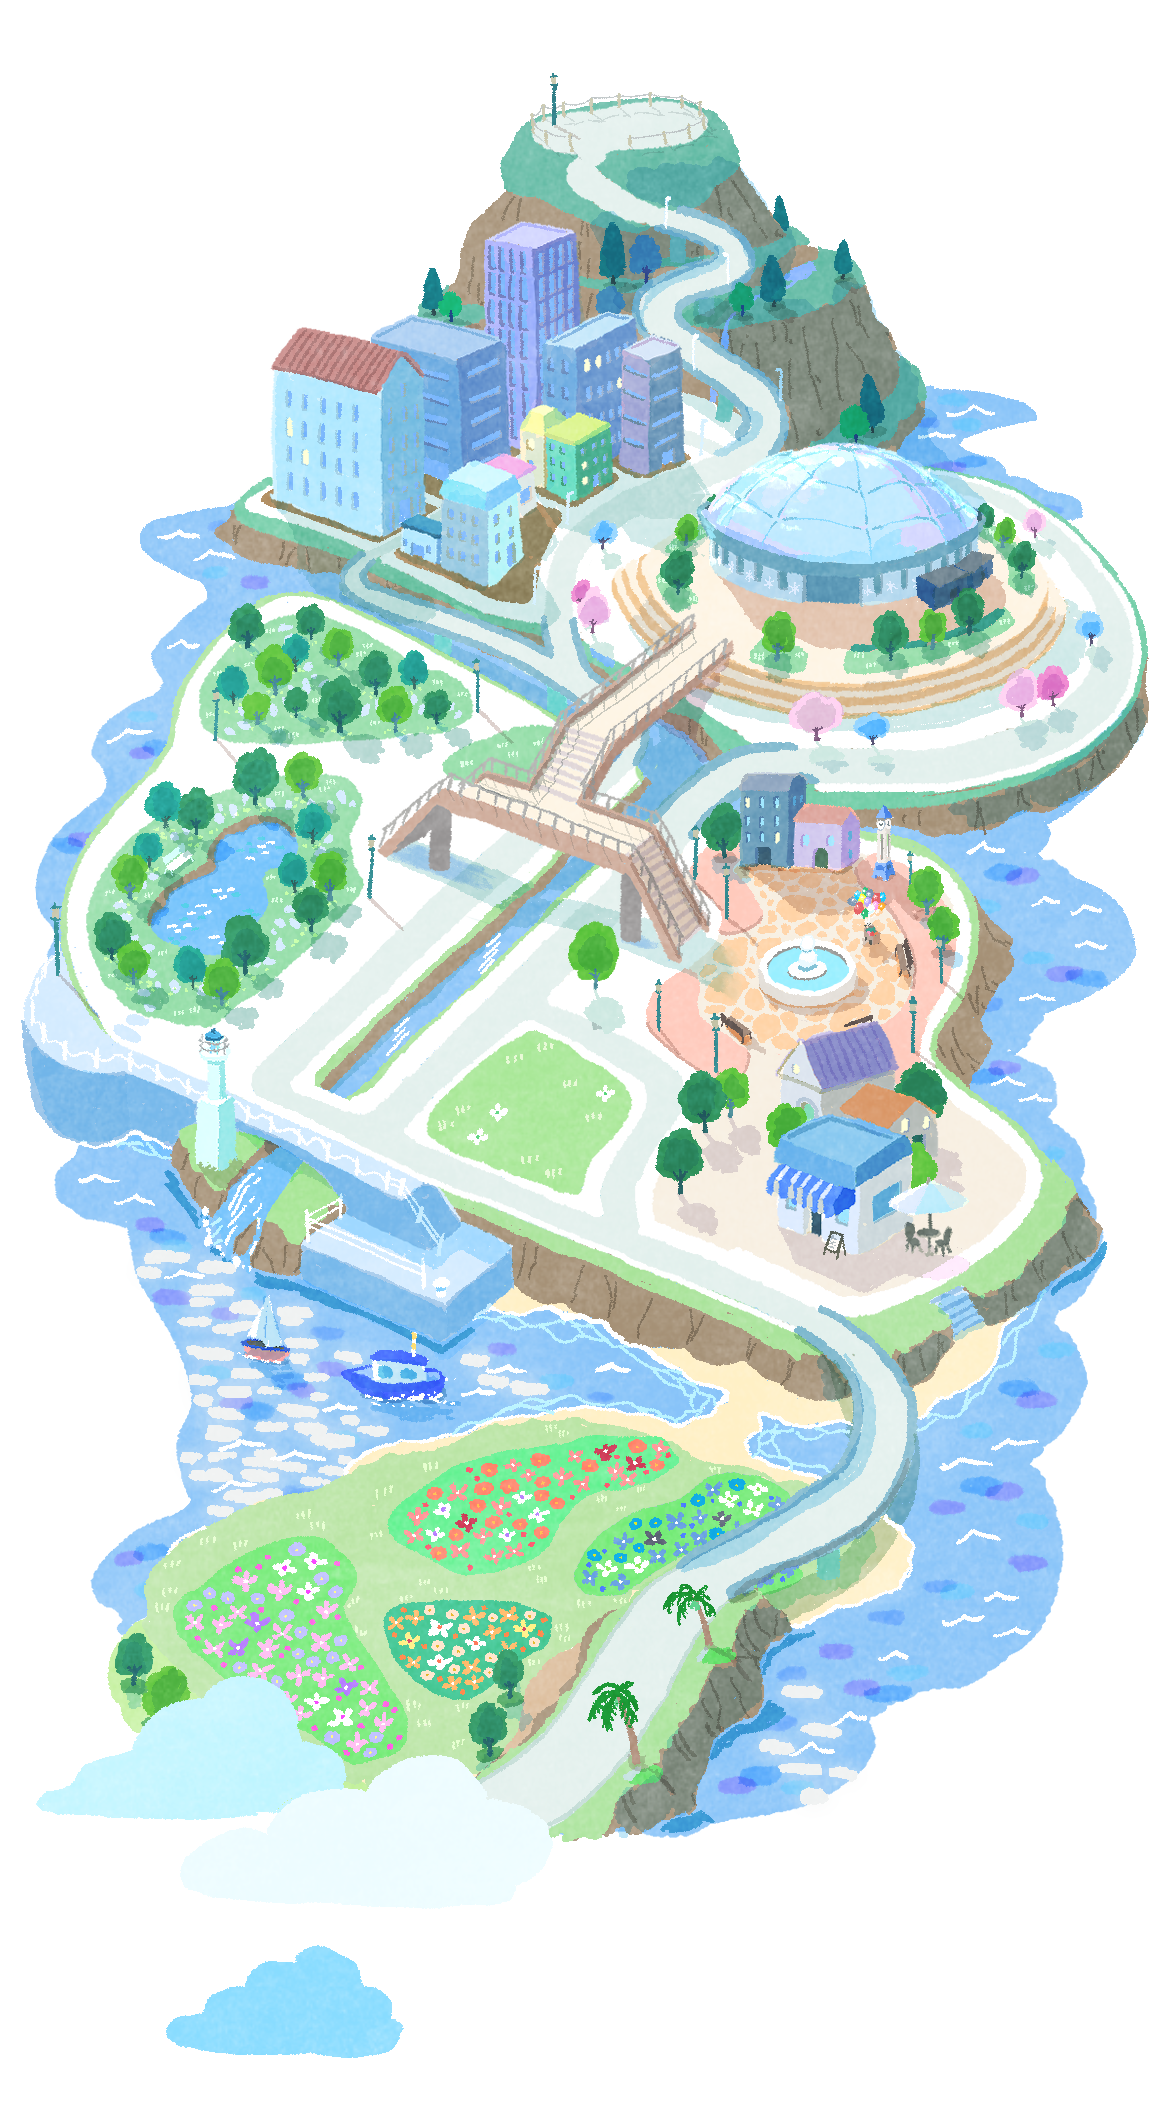
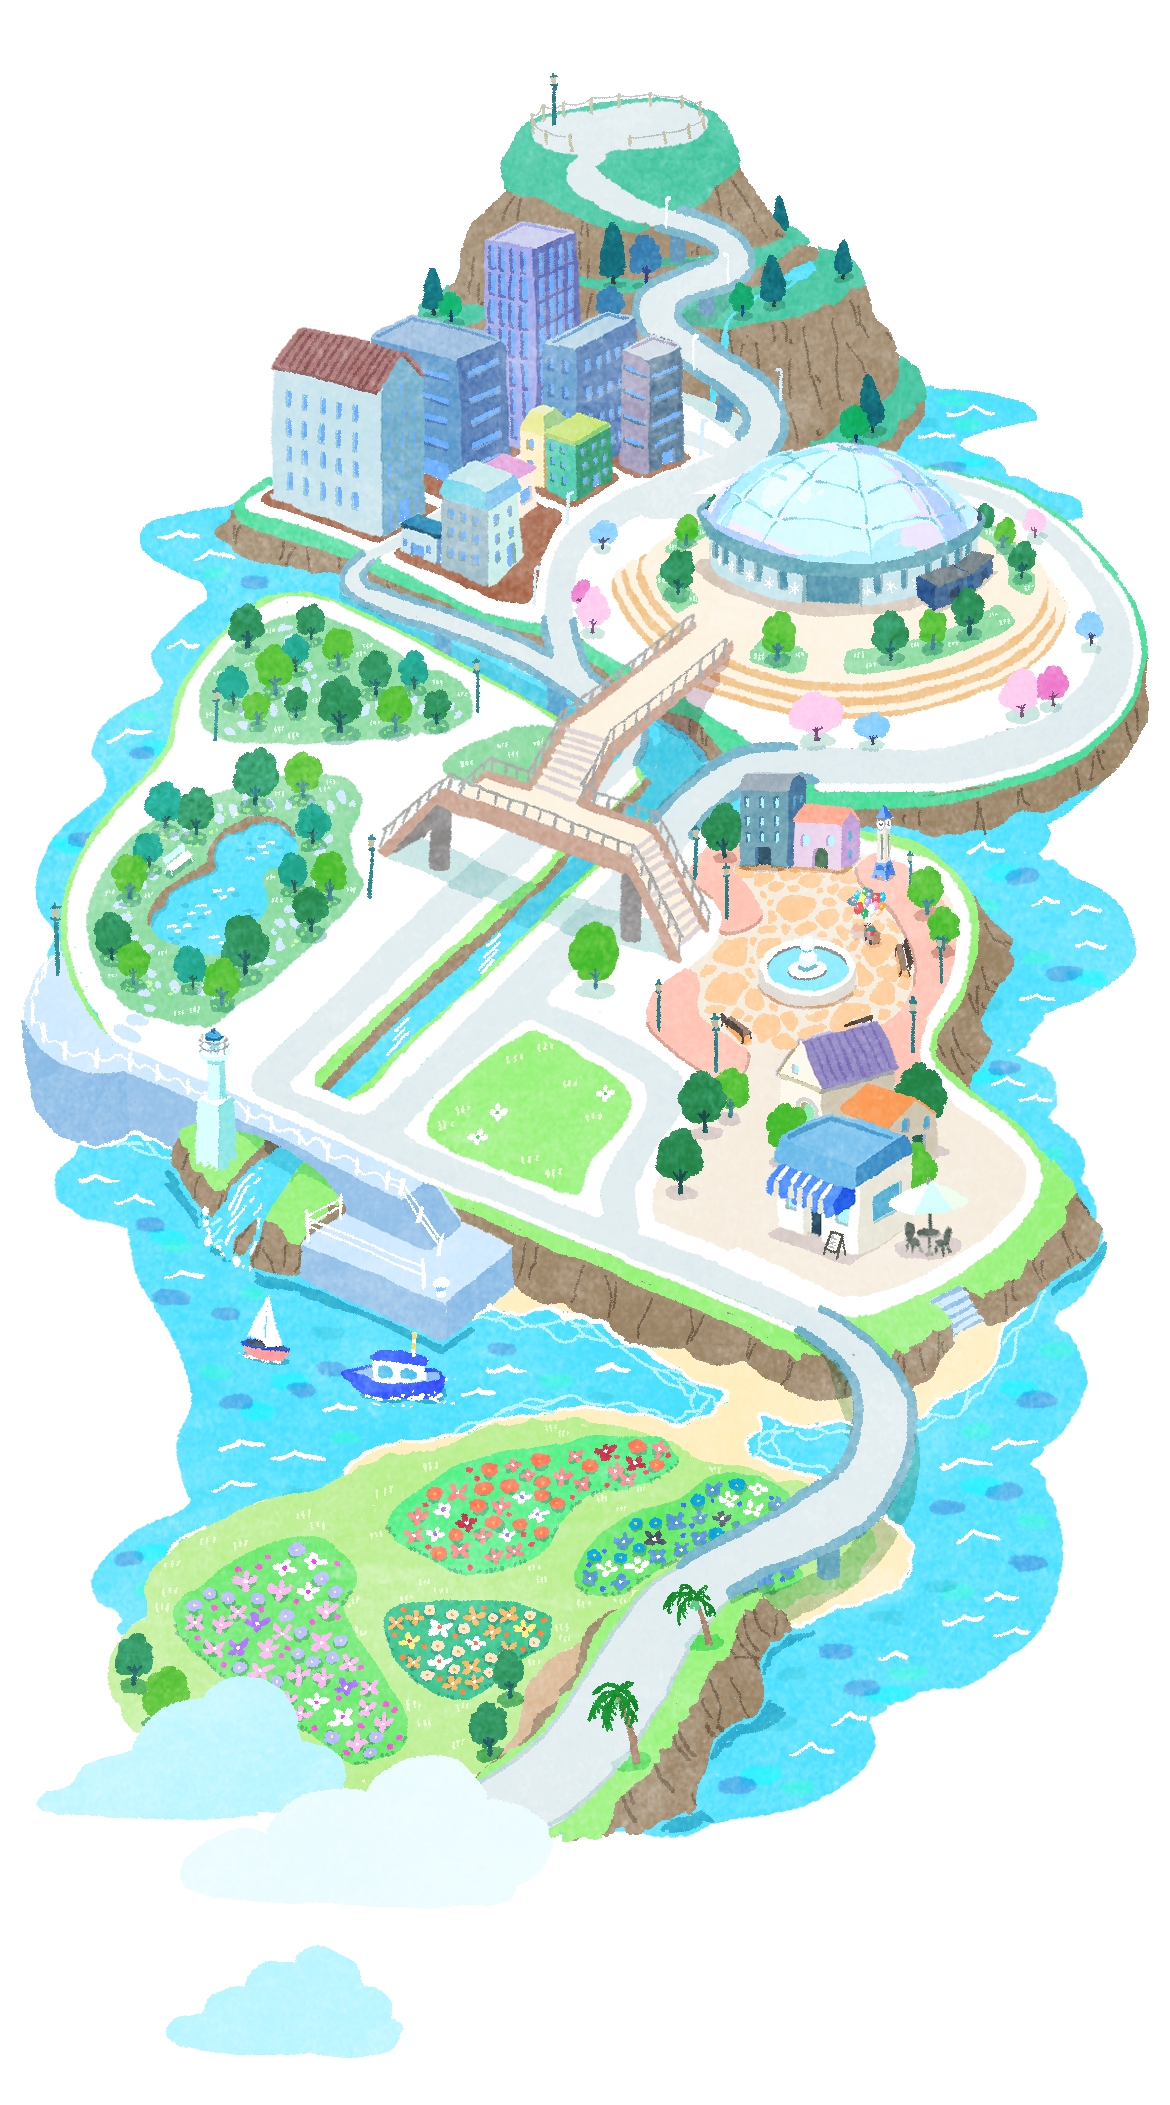
Add files via upload

diff --git a/index.html b/index.html
@@ -864,28 +864,35 @@
   inset: 0;
   z-index: 1;
   pointer-events: none;
-  opacity: 0;
-  transition: opacity 1.1s ease, background 1.1s ease;
-  mix-blend-mode: multiply;
+  opacity: 0 !important;
+  transition: none;
+  background: transparent !important;
+  mix-blend-mode: normal;
 }
-body.weather-rain #weatherSkyOverlay {
-  opacity: .58;
+/* 天候時はページ全体の空色を曇天寄りへ寄せ、地図上部だけ色が分かれるのを防ぐ */
+body.weather-rain.time-morning::before,
+body.weather-rain.time-day::before {
+  background: linear-gradient(180deg, #d1dce3 0%, #e3eaee 52%, #f1f4f5 100%);
 }
-body.weather-rain.time-morning #weatherSkyOverlay,
-body.weather-rain.time-day #weatherSkyOverlay {
-  background: linear-gradient(180deg, rgba(124,151,171,.42) 0%, rgba(171,189,198,.34) 38%, rgba(208,218,222,.14) 100%);
+body.weather-rain.time-evening::before,
+body.weather-rain.time-twilight::before {
+  background: linear-gradient(180deg, #b7b3bf 0%, #d0c4ca 48%, #e5d2cf 100%);
 }
-body.weather-rain.time-evening #weatherSkyOverlay,
-body.weather-rain.time-twilight #weatherSkyOverlay {
-  background: linear-gradient(180deg, rgba(121,127,147,.44) 0%, rgba(170,156,166,.30) 40%, rgba(211,201,203,.14) 100%);
+body.weather-rain.time-night::before,
+body.weather-rain.time-midnight::before {
+  background: linear-gradient(180deg, #4a6078 0%, #60758c 46%, #7f95aa 100%);
 }
-body.weather-rain.time-night #weatherSkyOverlay,
-body.weather-rain.time-midnight #weatherSkyOverlay {
-  background: linear-gradient(180deg, rgba(62,78,108,.46) 0%, rgba(96,112,144,.30) 48%, rgba(146,161,183,.10) 100%);
+body.weather-snow.time-morning::before,
+body.weather-snow.time-day::before {
+  background: linear-gradient(180deg, #d9e5ed 0%, #edf4f7 52%, #fafcfc 100%);
 }
-body.weather-snow #weatherSkyOverlay {
-  opacity: .28;
-  background: linear-gradient(180deg, rgba(200,219,236,.24) 0%, rgba(233,241,248,.18) 52%, rgba(255,255,255,.06) 100%);
+body.weather-snow.time-evening::before,
+body.weather-snow.time-twilight::before {
+  background: linear-gradient(180deg, #cbd6e2 0%, #dfe6ee 48%, #f0f2f6 100%);
+}
+body.weather-snow.time-night::before,
+body.weather-snow.time-midnight::before {
+  background: linear-gradient(180deg, #415773 0%, #5b7390 46%, #7b97b1 100%);
 }
 body.weather-rain .sky-cloud {
   filter: saturate(.90) brightness(.96);
@@ -1902,9 +1909,9 @@ body.weather-snow .sky-stars {
       <div class="full-map-touch-layer" id="fullMapTouchLayer" aria-hidden="true"></div>
       <div class="map-stage">
         <div class="sky-clouds" id="skyClouds" aria-hidden="true">
-          <img class="sky-cloud cloud-a" data-sky-cloud src="snow-cloud-morning.png?v=01410" alt="">
-          <img class="sky-cloud cloud-b" data-sky-cloud src="snow-cloud-morning.png?v=01410" alt="">
-          <img class="sky-cloud cloud-c" data-sky-cloud src="snow-cloud-morning.png?v=01410" alt="">
+          <img class="sky-cloud cloud-a" data-sky-cloud src="snow-cloud-morning.png?v=01414" alt="">
+          <img class="sky-cloud cloud-b" data-sky-cloud src="snow-cloud-morning.png?v=01414" alt="">
+          <img class="sky-cloud cloud-c" data-sky-cloud src="snow-cloud-morning.png?v=01414" alt="">
         </div>
         <div class="weather-sky-overlay" id="weatherSkyOverlay" aria-hidden="true"></div>
         <div class="sky-stars" id="skyStars" aria-hidden="true">
@@ -1937,7 +1944,7 @@ body.weather-snow .sky-stars {
           <i class="sky-star" style="--sx:94%;--sy:24%;--ss:1.5px;--sd:4.6s;--sdelay:-2.8s"></i>
         </div>
         <div class="map-images" aria-label="海と街、Snow Dome、木漏れ日の道、はじまりの広場、ブルーハーバー、シーズンガーデンがつながるSNOW MAP">
-          <img class="map-image base" id="mapImage" src="snow-map-day.png?v=01410" alt="SNOW MAPの地図" />
+          <img class="map-image base" id="mapImage" src="snow-map-day.png?v=01414" alt="SNOW MAPの地図" />
           <img class="map-image fade" id="mapImageFade" src="" alt="" aria-hidden="true" />
         </div>
         <div class="ambient"></div>
@@ -2707,23 +2714,23 @@ body.weather-snow .sky-stars {
     const weatherSkyOverlay=document.getElementById("weatherSkyOverlay");
     const weatherEffectLayer=document.getElementById("weatherEffectLayer");
     const timeImages={
-  morning:"snow-map-morning.png?v=01410",
-  day:"snow-map-day.png?v=01410",
-  evening:"snow-map-evening.png?v=01410",
-  twilight:"snow-map-twilight.png?v=01410",
-  night:"snow-map-night.png?v=01410",
-  midnight:"snow-map-midnight.png?v=01410"
+  morning:"snow-map-morning.png?v=01414",
+  day:"snow-map-day.png?v=01414",
+  evening:"snow-map-evening.png?v=01414",
+  twilight:"snow-map-twilight.png?v=01414",
+  night:"snow-map-night.png?v=01414",
+  midnight:"snow-map-midnight.png?v=01414"
 };
     const timeClouds={
-  morning:"snow-cloud-morning.png?v=01410",
-  day:"snow-cloud-day.png?v=01410",
-  evening:"snow-cloud-evening.png?v=01410",
-  twilight:"snow-cloud-evening.png?v=01410",
-  night:"snow-cloud-night.png?v=01410",
-  midnight:"snow-cloud-night.png?v=01410"
+  morning:"snow-cloud-morning.png?v=01414",
+  day:"snow-cloud-day.png?v=01414",
+  evening:"snow-cloud-evening.png?v=01414",
+  twilight:"snow-cloud-evening.png?v=01414",
+  night:"snow-cloud-night.png?v=01414",
+  midnight:"snow-cloud-night.png?v=01414"
 };
     const skyCloudImages=[...document.querySelectorAll("[data-sky-cloud]")];
-    const WEATHER_VERSION="01413";
+    const WEATHER_VERSION="01414";
     const weatherMaps={
       snow:{
         morning:`snow-map-snow-morning.png?v=${WEATHER_VERSION}`,
